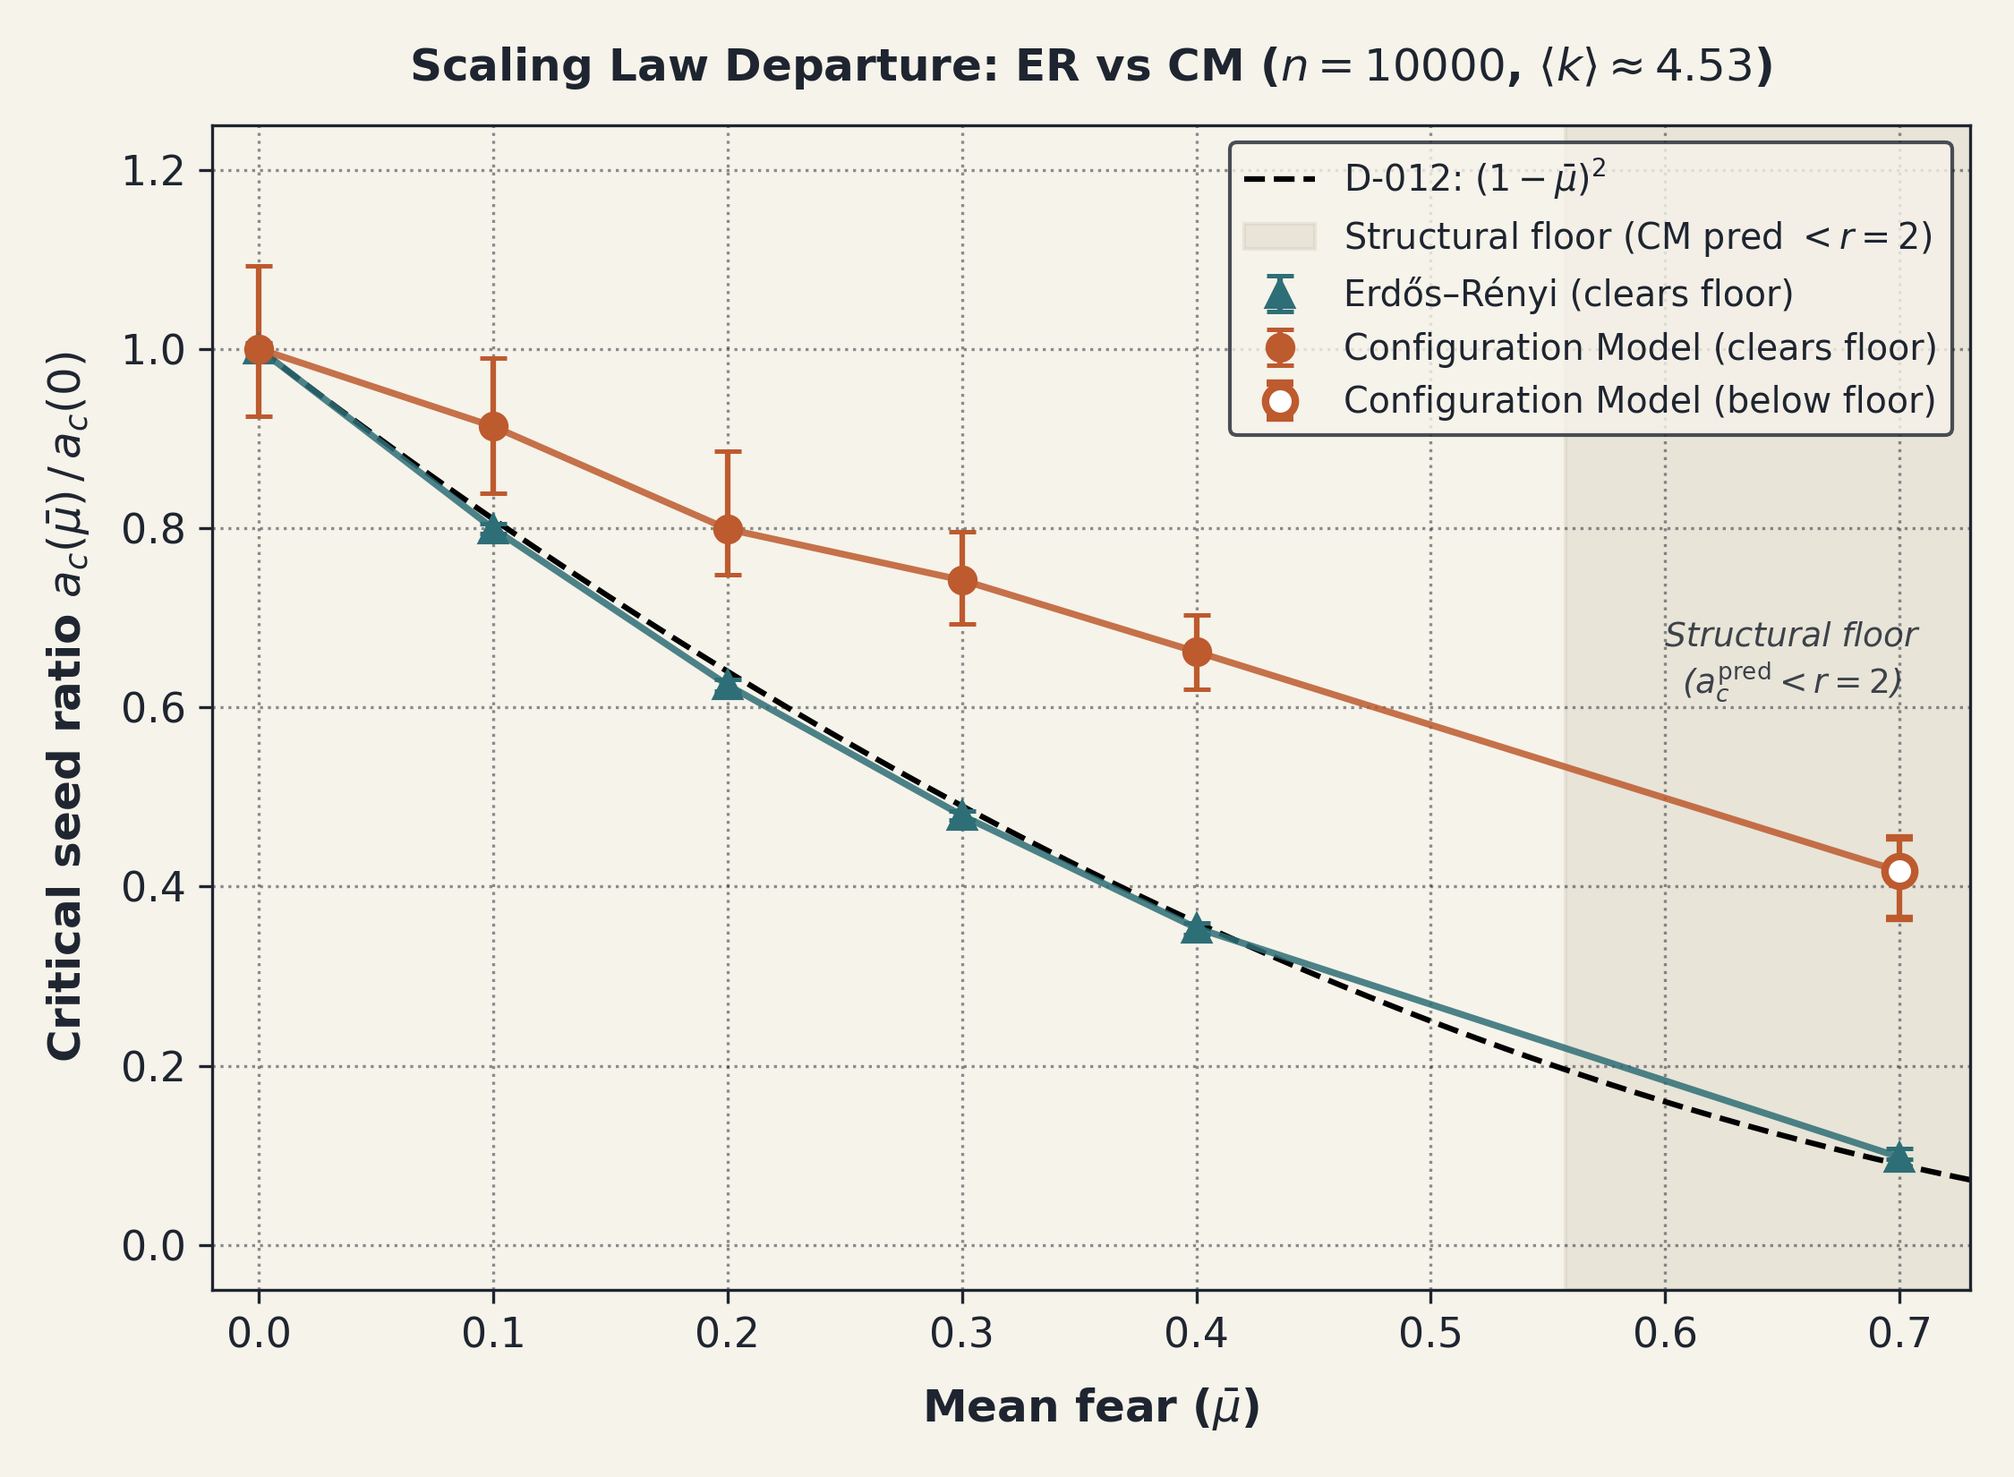
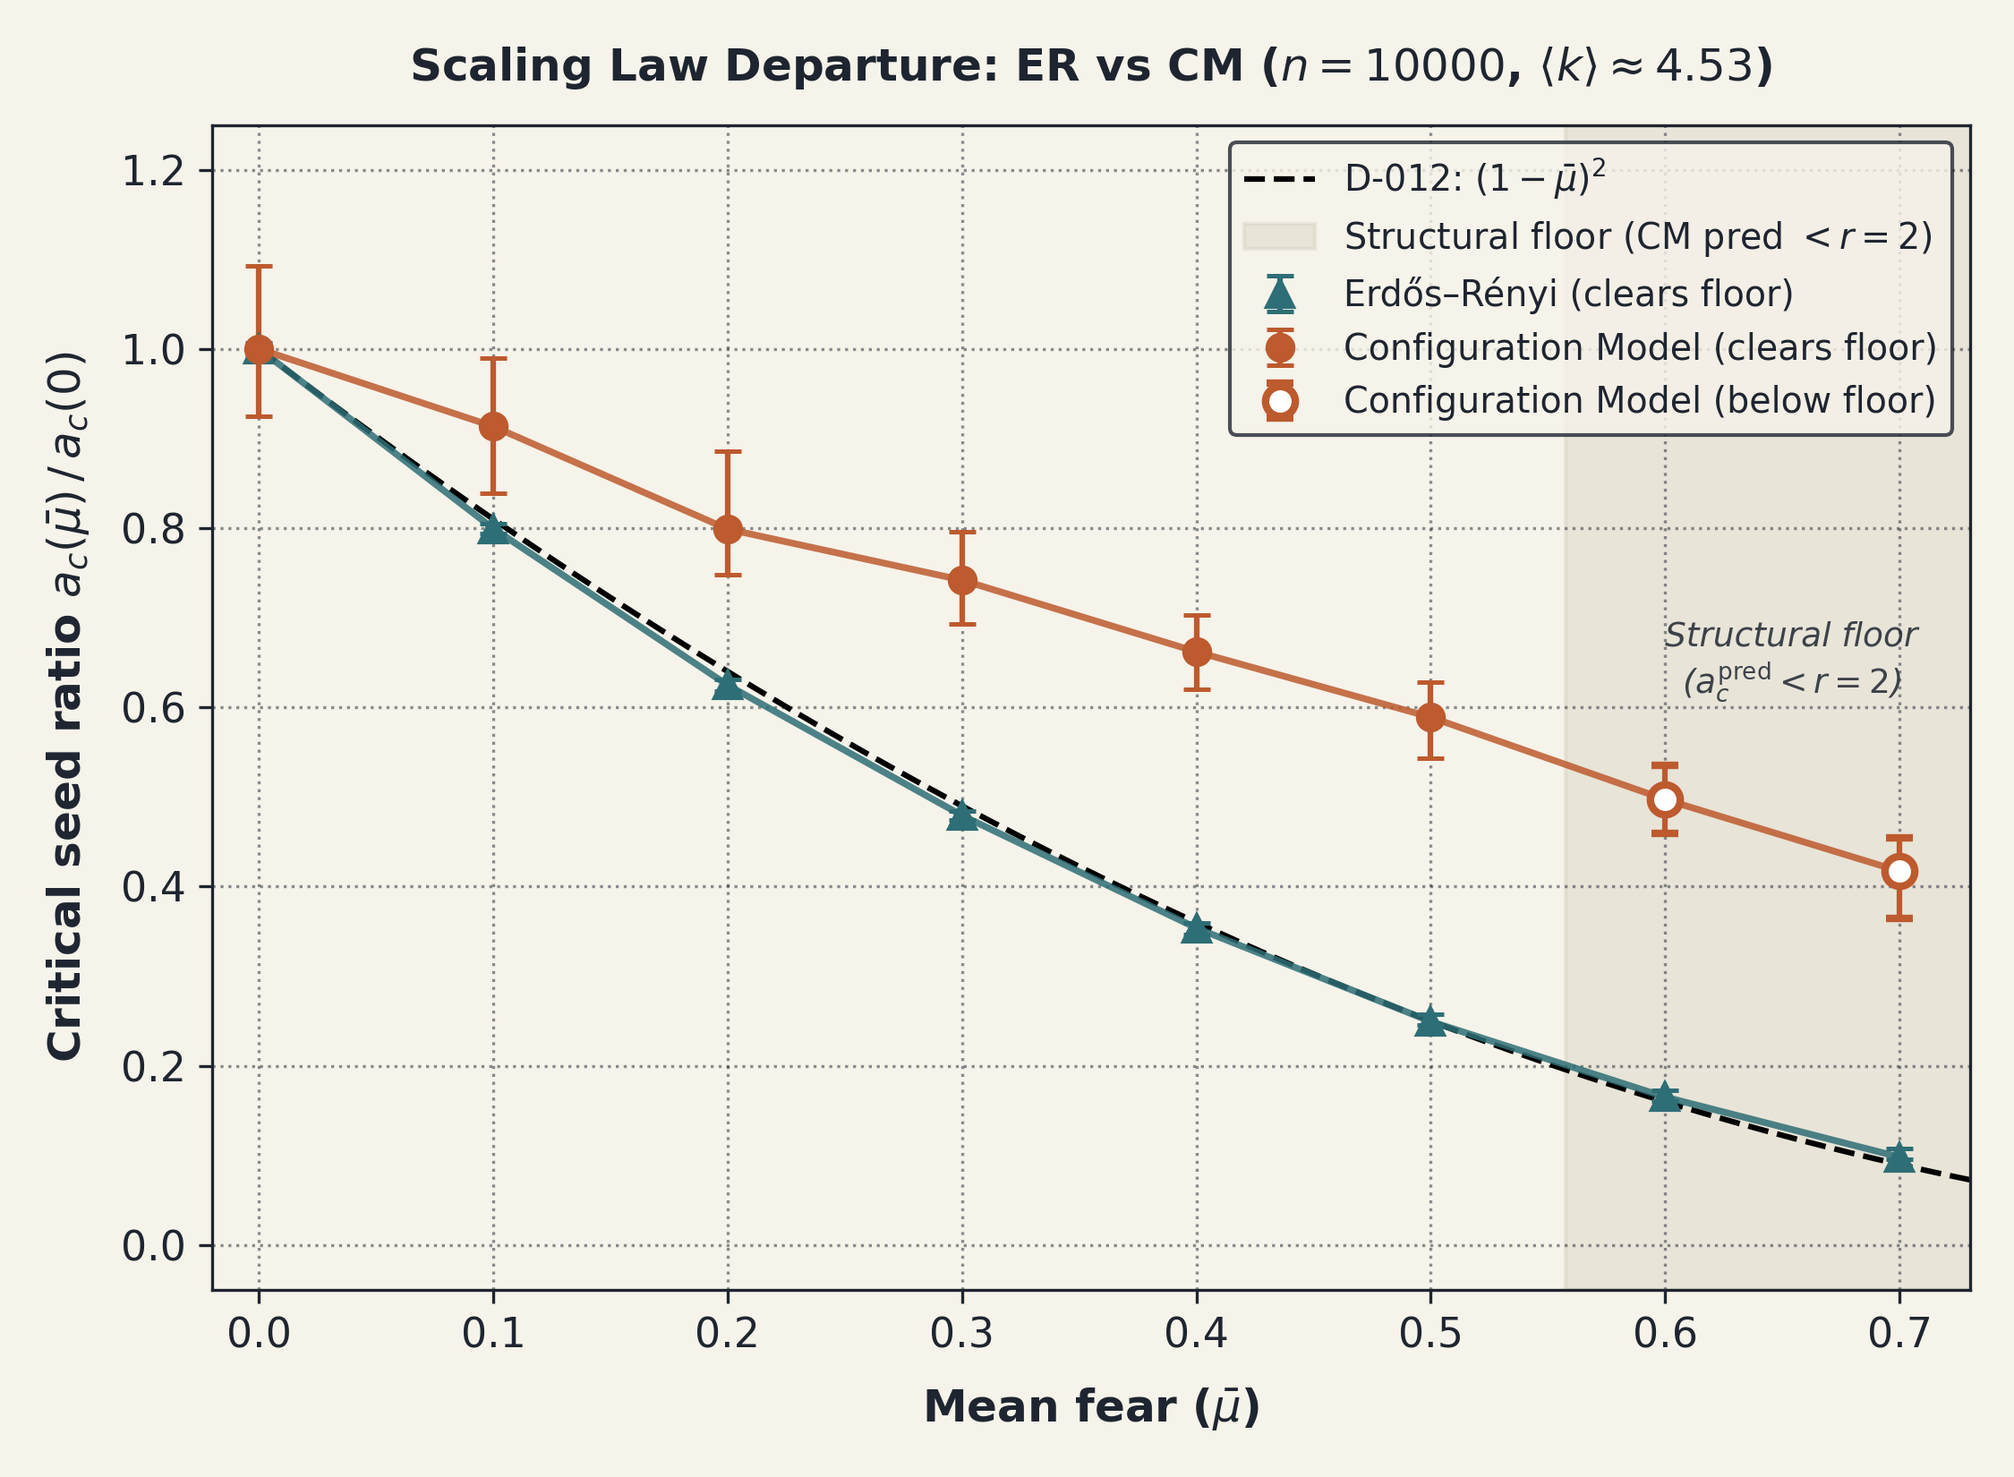
analysis: S-066 critic-round fixes — famcompare provenance guard, mu-slot binding, honest realized_mu_bar, departure figure regen
Closes the four MATERIAL findings from the S-066 pre-print gate's blind
critic round (CRITIC FAIL, 2026-08-06; no poster number falsified — all
headline values reproduced exactly):

- M-3: analyze_famcompare.py gains check_config_provenance — per merged
  CURVE (not per family; famcompare mixes ensembles across n by design),
  every raw bound to its basename-derived config (exists + exact
  output.raw_filepath + pinned_params.graph.type matches family; None for
  ER's graph:null configs) with group-wide graph-block identity. Ext raw
  paths hoisted to shared constants so certified and merged lists cannot
  drift. Extension reports now fatal on pinned-param mismatch or on
  missing expected mu cells from a present ext raw.
- M-4: analyze_poster_comparison.py guard now binds the mu slot
  (config sweep.mean_fear_grid == [spec.mu] + cell-level mean_fear check);
  realized_mu_bar is null when raws persist no realized_fear (all of them,
  runner.py gap) instead of echoing spec.mu under a measurement name.
  poster_comparison.json regenerated: field delta is exactly
  24x realized_mu_bar -> null + stamp.
- M-1: results/figures/scaling_law_departure.png regenerated from the
  committed poster_comparison.json — now 8 points/family incl. the
  mu-bar 0.5/0.6 arms (was stale pre-densification, 2 points missing).
- famcompare_analysis.json regenerated under the new guard: field delta
  vs prior is stamp-only (git_commit, timestamp) — behavior identical.
[…]

diff --git a/scripts/analyze_famcompare.py b/scripts/analyze_famcompare.py
@@ -191,6 +191,17 @@ CM_MATCHED_PATHS = {
 }
 CM_LEGACY_N10000_PATH = f"results/q4_ignition_tau25_mumap_n{CM_MATCHED_N}_raw.json"
 
+# Extension raw paths -- single source of truth shared by the merge calls AND
+# the config-provenance groups in main(), so the certified paths cannot drift
+# from the merged ones.
+GIRG_EXT_PATHS = {
+    0.5: "results/poster_girg_mu50_raw.json",
+    0.6: "results/poster_girg_mu60_raw.json",
+    0.7: "results/poster_girg_mu70_raw.json",
+}
+ER_MATCHED_EXT_PATH = "results/famcompare_er_matched_n10000_ext_raw.json"
+ER_BOUNDED_EXT_PATH = "results/famcompare_er_bounded_n10000_ext_raw.json"
+
 CM_REBASE_NOTE = (
     "2026-08-04 REBASE: configuration_model's n=10000 famcompare source switched "
     "from the q4-sourced results/q4_ignition_tau25_mumap_n10000_raw.json (mean "
@@ -247,6 +258,71 @@ def validate_pinned_compat(meta_a, meta_b, rel_tol_p=PINNED_COMPAT_REL_TOL_P):
         if rel > rel_tol_p:
             mismatches.append(f"p: {pa} vs {pb} (relative diff {rel:.4%})")
     return mismatches
+
+
+def check_config_provenance(group_label, expected_graph_type, raw_paths):
+    """Bind every raw feeding one curve to its committed config and certify
+    the curve's graph-family identity (famcompare port of
+    analyze_poster_comparison.check_family_config_provenance, closing the
+    same hole in this pipeline: raw metadata persists NO graph params
+    (runner.py gap, hygiene-queued), and on the matched <k>=4.5336 ensemble
+    every metadata key validate_pinned_compat can see is identical across ER,
+    CM, and GIRG by design, so metadata-only checks cannot detect a raw
+    spliced into the wrong family).
+
+    Groups are per merged CURVE, not per family, because famcompare families
+    legitimately mix ensembles across n (CM is q4-sourced mean-degree-4.0 at
+    n=4000/20000 but matched 4.5336 at n=10000; girg's w_min is calibrated
+    per n) -- only raws merged into the SAME curve must share one
+    pinned_params.graph block.
+
+    For each raw path that exists on disk (absent raws are handled and
+    recorded by the loaders' skip logic): derive its config from the basename
+    (results/<name>_raw.json -> configs/<name>.json), require the config to
+    exist, to declare exactly this raw as output.raw_filepath, and to carry
+    pinned_params.graph.type == expected_graph_type (None for ER: gnp is the
+    default family, its configs carry graph: null). Then require every config
+    in the group to share ONE pinned_params.graph block. Raises ValueError on
+    any violation -- fail loud, never splice silently.
+    """
+    graph_blocks = {}
+    for raw_path in raw_paths:
+        if not os.path.exists(os.path.join(REPO_ROOT, raw_path)):
+            continue
+        base = os.path.basename(raw_path)
+        if not base.endswith("_raw.json"):
+            raise ValueError(
+                f"provenance[{group_label}]: raw path {raw_path!r} does not "
+                "end in '_raw.json'; cannot derive its config name"
+            )
+        cfg_path = os.path.join("configs", base[: -len("_raw.json")] + ".json")
+        if not os.path.exists(os.path.join(REPO_ROOT, cfg_path)):
+            raise ValueError(
+                f"provenance[{group_label}]: no committed config at {cfg_path} "
+                f"to certify graph-family provenance for raw {raw_path!r}"
+            )
+        with open(os.path.join(REPO_ROOT, cfg_path)) as f:
+            cfg = json.load(f)
+        declared = cfg.get("output", {}).get("raw_filepath")
+        if declared != raw_path:
+            raise ValueError(
+                f"provenance[{group_label}]: {cfg_path} declares "
+                f"output.raw_filepath={declared!r}, not {raw_path!r}"
+            )
+        gblock = cfg.get("pinned_params", {}).get("graph")
+        gtype = (gblock or {}).get("type")
+        if gtype != expected_graph_type:
+            raise ValueError(
+                f"provenance[{group_label}]: {cfg_path} has "
+                f"pinned_params.graph.type={gtype!r}, expected "
+                f"{expected_graph_type!r} -- raw from the wrong graph family"
+            )
+        graph_blocks[cfg_path] = json.dumps(gblock, sort_keys=True)
+    if len(set(graph_blocks.values())) > 1:
+        raise ValueError(
+            f"provenance[{group_label}]: member configs disagree on "
+            f"pinned_params.graph: {graph_blocks}"
+        )
 
 
 def cells_from_raw(raw, theta, seed_size=None):
@@ -423,6 +499,34 @@ def main():
     er_bounded_paths = {n: f"results/famcompare_er_bounded_n{n}_raw.json" for n in N_GRID}
     er_a05_paths = {n: f"results/famcompare_er_scaled_n{n}_raw.json" for n in N_GRID}
 
+    # --- Config-provenance certification, per merged curve (fail loud) ------
+    # One group per curve that merges (or could merge) raws; single-raw curves
+    # get the raw<->config binding + graph-type check with no identity pair.
+    provenance_groups = [
+        ("configuration_model/q4_n4000", "configuration_model", [cm_paths[4000]]),
+        ("configuration_model/q4_n20000", "configuration_model", [cm_paths[20000]]),
+        ("configuration_model/matched_n10000", "configuration_model",
+         list(CM_MATCHED_PATHS.values())),
+        ("girg/n4000", "girg", [girg_paths[4000]]),
+        ("girg/n20000", "girg", [girg_paths[20000]]),
+        ("girg/n10000+ext", "girg",
+         [girg_paths[10000]] + [GIRG_EXT_PATHS[mu] for mu in sorted(GIRG_EXT_PATHS)]),
+        ("erdos_renyi_matched/n4000", None, [er_matched_paths[4000]]),
+        ("erdos_renyi_matched/n20000", None, [er_matched_paths[20000]]),
+        ("erdos_renyi_matched/n10000+ext", None,
+         [er_matched_paths[10000], ER_MATCHED_EXT_PATH]),
+        ("erdos_renyi_bounded/n4000", None, [er_bounded_paths[4000]]),
+        ("erdos_renyi_bounded/n20000", None, [er_bounded_paths[20000]]),
+        ("erdos_renyi_bounded/n10000+ext", None,
+         [er_bounded_paths[10000], ER_BOUNDED_EXT_PATH]),
+        ("erdos_renyi_a05/n4000", None, [er_a05_paths[4000]]),
+        ("erdos_renyi_a05/n10000", None, [er_a05_paths[10000]]),
+        ("erdos_renyi_a05/n20000", None, [er_a05_paths[20000]]),
+    ]
+    for label, gtype, paths in provenance_groups:
+        check_config_provenance(label, gtype, paths)
+    print(f"config provenance certified for {len(provenance_groups)} curve groups")
+
     cm_cells, cm_commits, cm_skip = build_family("configuration_model", cm_paths, theta_by_n)
 
     # --- CM rebase: n=10000 from the matched poster_cm arms ------------------
@@ -501,40 +605,42 @@ def main():
         "rebase": cm_rebase_report,
     }
 
-    extension_reports["girg_mu50"] = merge_extension_cells(
-        "girg", girg_cells, girg_commits,
-        base_raw_path="results/famcompare_girg_n10000_raw.json",
-        ext_raw_path="results/poster_girg_mu50_raw.json",
-        theta=theta_by_n[EXT_N], mus=[0.5], seed_size=2,
-    )
-    extension_reports["girg_mu60"] = merge_extension_cells(
-        "girg", girg_cells, girg_commits,
-        base_raw_path="results/famcompare_girg_n10000_raw.json",
-        ext_raw_path="results/poster_girg_mu60_raw.json",
-        theta=theta_by_n[EXT_N], mus=[0.6], seed_size=2,
-    )
-    extension_reports["girg_mu70"] = merge_extension_cells(
-        "girg", girg_cells, girg_commits,
-        base_raw_path="results/famcompare_girg_n10000_raw.json",
-        ext_raw_path="results/poster_girg_mu70_raw.json",
-        theta=theta_by_n[EXT_N], mus=[0.7], seed_size=2,
-    )
+    for mu in sorted(GIRG_EXT_PATHS):
+        extension_reports[f"girg_mu{int(round(mu * 100))}"] = merge_extension_cells(
+            "girg", girg_cells, girg_commits,
+            base_raw_path=girg_paths[EXT_N],
+            ext_raw_path=GIRG_EXT_PATHS[mu],
+            theta=theta_by_n[EXT_N], mus=[mu], seed_size=2,
+        )
     extension_reports["erdos_renyi_matched"] = merge_extension_cells(
         "erdos_renyi_matched", er_m_cells, er_m_commits,
-        base_raw_path="results/famcompare_er_matched_n10000_raw.json",
-        ext_raw_path="results/famcompare_er_matched_n10000_ext_raw.json",
+        base_raw_path=er_matched_paths[EXT_N],
+        ext_raw_path=ER_MATCHED_EXT_PATH,
         theta=theta_by_n[EXT_N], mus=EXT_MU_GRID, seed_size=279,
     )
     extension_reports["erdos_renyi_bounded"] = merge_extension_cells(
         "erdos_renyi_bounded", er_b_cells, er_b_commits,
-        base_raw_path="results/famcompare_er_bounded_n10000_raw.json",
-        ext_raw_path="results/famcompare_er_bounded_n10000_ext_raw.json",
+        base_raw_path=er_bounded_paths[EXT_N],
+        ext_raw_path=ER_BOUNDED_EXT_PATH,
         theta=theta_by_n[EXT_N], mus=EXT_MU_GRID, seed_size=2,
     )
 
     for fam, rep in extension_reports.items():
         print(f"extension[{fam}]: merged_mu={rep.get('merged_mu')} missing_mu={rep.get('missing_mu')} "
               f"mismatches={rep.get('mismatches')} note={rep.get('note')}")
+        # Fail loud on data incompatibility (S-064 splice lesson; critic
+        # finding S-066): a pinned-param mismatch, or an expected mu cell
+        # missing from an ext raw that IS present on disk, means wrong or
+        # corrupted data -- never ship a silently thinner/spliced curve.
+        # A wholly absent ext raw (note about missing base/ext) stays a
+        # tolerated, recorded skip (poster-deadline fallback, unchanged).
+        if rep.get("mismatches"):
+            raise ValueError(f"extension[{fam}]: pinned-param mismatch: {rep['mismatches']}")
+        if rep.get("missing_mu") and rep.get("note") == "merged":
+            raise ValueError(
+                f"extension[{fam}]: ext raw present but expected mu cells "
+                f"missing/incomplete: {rep['missing_mu']}"
+            )
 
     def ratio_series(cells_by_n):
         """Ratio series over whatever mu_bar cells are present in each n's dict

diff --git a/scripts/analyze_poster_comparison.py b/scripts/analyze_poster_comparison.py
@@ -103,8 +103,9 @@ def check_family_compatibility(family: str, member_raws: list[tuple[str, dict]])
 
 
 def check_family_config_provenance(family: str, specs: list[dict]) -> None:
-    """Bind every family member to its committed config and assert the family
-    shares ONE pinned_params.graph block.
+    """Bind every family member to its committed config, assert the family
+    shares ONE pinned_params.graph block, and bind each spec's mu slot to its
+    config's sweep.mean_fear_grid.
 
     The raw files do not persist graph.type/tau/w_min/alpha_g (runner.py
     metadata gap, hygiene-queued), so in a matched ensemble -- where
@@ -115,7 +116,10 @@ def check_family_config_provenance(family: str, specs: list[dict]) -> None:
     multi-raw ER tail specs) is bound to its own config, derived from the
     raw's basename: results/<name>_raw.json -> configs/<name>.json. Each
     config must exist, must declare exactly that raw as its
-    output.raw_filepath, and every config in the family must share one
+    output.raw_filepath, must sweep exactly [spec's mu] (so a raw sitting in
+    the wrong mu slot of its own family fails loudly too -- basename-derived
+    binding alone certifies raw<->config self-consistency, not slot
+    correctness), and every config in the family must share one
     pinned_params.graph block. Runs after os.chdir(base_dir), so paths are
     repo-relative.
     """
@@ -142,6 +146,14 @@ def check_family_config_provenance(family: str, specs: list[dict]) -> None:
                 raise ValueError(
                     f"family '{family}': {cfg_path} declares "
                     f"output.raw_filepath={declared!r}, not {raw_path!r}"
+                )
+            grid = cfg.get("sweep", {}).get("mean_fear_grid")
+            if grid != [spec["mu"]]:
+                raise ValueError(
+                    f"family '{family}': {cfg_path} sweeps "
+                    f"mean_fear_grid={grid!r}, but spec {spec['key']!r} sits in "
+                    f"the mu={spec['mu']!r} slot -- raw/config assigned to the "
+                    "wrong mu slot"
                 )
             graph_blocks[cfg_path] = json.dumps(
                 cfg.get("pinned_params", {}).get("graph"), sort_keys=True
@@ -203,6 +215,17 @@ def main() -> None:
                     f"{spec['key']}: engine mismatch merging {raw_rel}: "
                     f"{this_engine} vs {engine_resolved}"
                 )
+            # Cell-level mu binding: every cell in the raw must carry exactly
+            # this spec slot's mean_fear. Complements the config-level
+            # mean_fear_grid check in check_family_config_provenance -- this
+            # one catches a raw whose cells disagree with its own config.
+            for cell in raw_data["results"]:
+                if cell.get("mean_fear") != spec["mu"]:
+                    raise ValueError(
+                        f"{spec['key']}: {raw_rel} carries a cell with "
+                        f"mean_fear={cell.get('mean_fear')!r}, expected "
+                        f"{spec['mu']!r} -- raw is in the wrong mu slot"
+                    )
             all_cells.extend(raw_data["results"])
 
         ac0 = janson_a_c(n, p, r)
@@ -256,7 +279,13 @@ def main() -> None:
         a05_low = interpolate_crossing(seed_sizes, ci_upp, 0.5)
         a05_high = interpolate_crossing(seed_sizes, ci_low, 0.5)
 
-        avg_realized_mu = float(np.mean(realized_mus)) if len(realized_mus) > 0 else spec["mu"]
+        # Honest field: None (JSON null) when the raws persist no realized_fear
+        # data -- which is currently ALL of them (runner.py gap). The old
+        # fallback echoed spec["mu"] into a measurement-named field, making it
+        # structurally incapable of disagreeing with the input. Nominal mu is
+        # already published as mean_fear; the mu-slot cross-checks above are
+        # the actual guard.
+        avg_realized_mu = float(np.mean(realized_mus)) if len(realized_mus) > 0 else None
 
         curves_summary[spec["key"]] = {
             "key": spec["key"],
@@ -365,7 +394,8 @@ def main() -> None:
     print("\n--- SUMMARY TABLE ---")
     print(f"{'Key':<16} {'Engine':<8} {'mu_real':<8} {'Interior':<8} {'a_0.5 (Point)':<14} {'a_0.5 (95% CI)':<20} {'a/a_c (Point)':<14} {'a/a_c (95% CI)':<20}")
     for k, v in curves_summary.items():
-        print(f"{k:<16} {v['engine_resolved']:<8} {v['realized_mu_bar']:<8.3f} {v['interior_point_count']:<8} {v['a05_point']:<14.2f} [{v['a05_ci_lower']:.2f}, {v['a05_ci_upper']:.2f}] {'':<3} {v['a_over_ac_point']:<14.4f} [{v['a_over_ac_ci_lower']:.4f}, {v['a_over_ac_ci_upper']:.4f}]")
+        mu_real = f"{v['realized_mu_bar']:.3f}" if v["realized_mu_bar"] is not None else "n/a"
+        print(f"{k:<16} {v['engine_resolved']:<8} {mu_real:<8} {v['interior_point_count']:<8} {v['a05_point']:<14.2f} [{v['a05_ci_lower']:.2f}, {v['a05_ci_upper']:.2f}] {'':<3} {v['a_over_ac_point']:<14.4f} [{v['a_over_ac_ci_lower']:.4f}, {v['a_over_ac_ci_upper']:.4f}]")
 
     print("\n--- D-012 COMPARISON TABLE ---")
     print(f"{'Family':<22} {'mu':<5} {'Measured (CI)':<26} {'Predicted':<12} {'Ratio':<8} {'Below Floor (<r=2)?':<20}")
